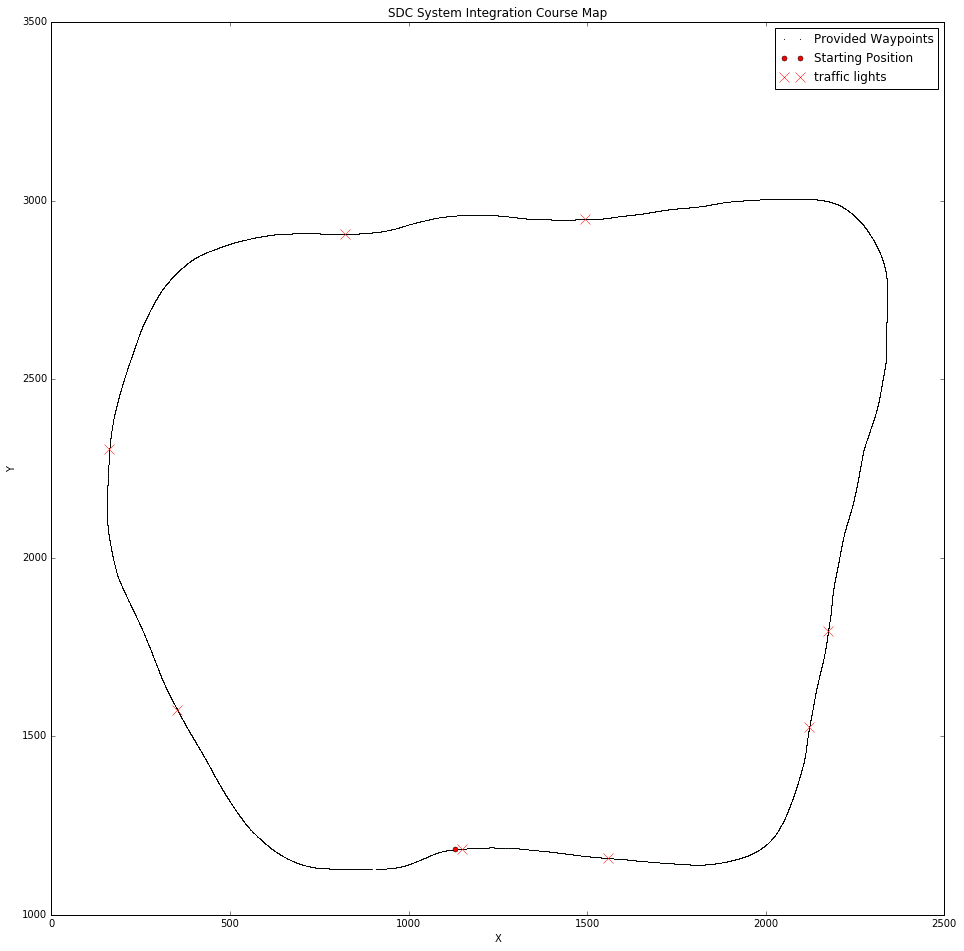
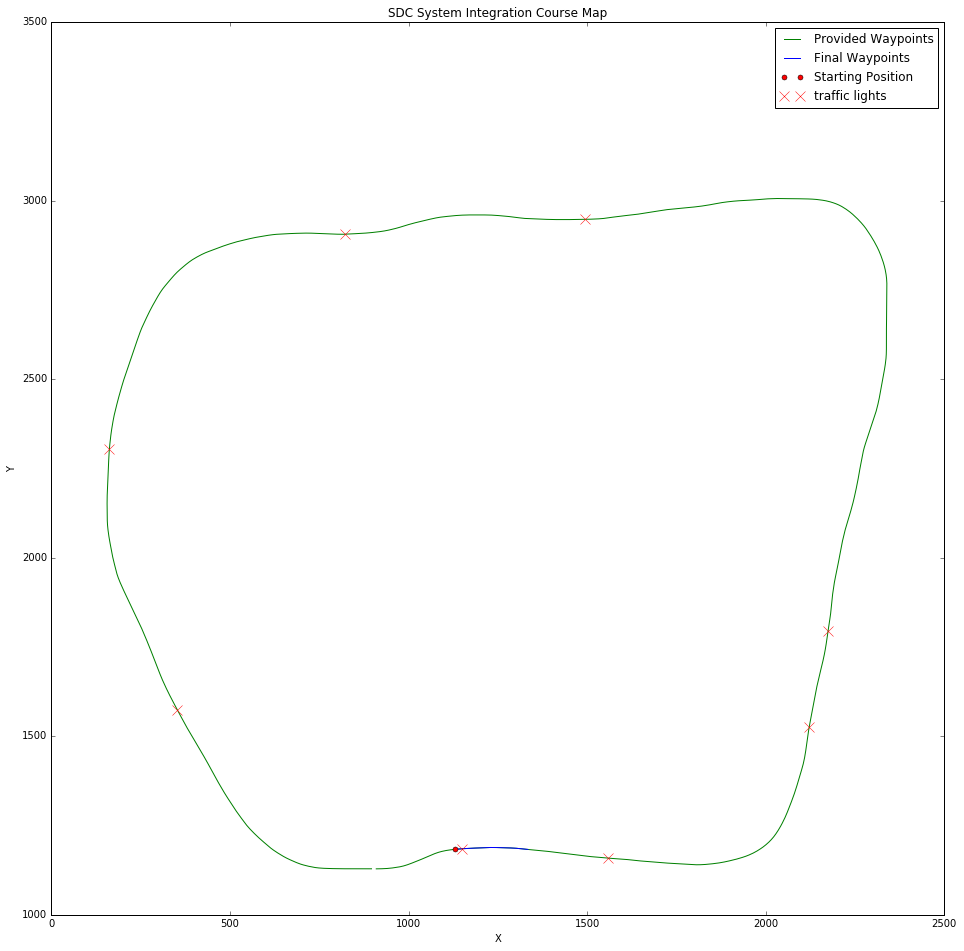
feat: waypoint_updater.py rc1

Changed region(s): [[0.8091, 0.061, 0.9647, 0.122]]

diff --git a/ros/src/waypoint_updater/waypoint_updater.py b/ros/src/waypoint_updater/waypoint_updater.py
@@ -1,8 +1,10 @@
 #!/usr/bin/env python
 
 import rospy
+import tf
 from geometry_msgs.msg import PoseStamped
 from styx_msgs.msg import Lane, Waypoint
+import numpy as np
 
 import math
 
@@ -32,21 +34,72 @@ class WaypointUpdater(object):
         rospy.Subscriber('/base_waypoints', Lane, self.waypoints_cb)
 
         # TODO: Add a subscriber for /traffic_waypoint and /obstacle_waypoint below
-
+        # NOTE: comment out until we get traffic lights working...
+        # rospy.Subscriber('/traffic_waypoint', Waypoint, self.traffic_cb)
+        # rospy.Subscriber('/obstacle_waypoint', Waypoint, self.obstacle_cb)
 
         self.final_waypoints_pub = rospy.Publisher('final_waypoints', Lane, queue_size=1)
 
-        # TODO: Add other member variables you need below
+        # DONE: Add other member variables you need below
+        self.pose = None
+        self.theta = None
+        self.waypoints = None
+        self.cwp = None
 
         rospy.spin()
 
-    def pose_cb(self, msg):
-        # TODO: Implement
-        pass
+    def nextWaypoint(self):
+        dist = 100000.
+        dl = lambda a, b: math.sqrt((a.x-b.x)**2 + (a.y-b.y)**2  + (a.z-b.z)**2)
+        cwp = 0
+        for i in range(len(self.waypoints)):
+            d1 = dl(self.position, self.waypoints[i].pose.pose.position)
+            if dist > d1:
+                cwp = i
+                dist = d1
+        x = self.waypoints[cwp].pose.pose.position.x
+        y = self.waypoints[cwp].pose.pose.position.y
+        heading = np.arctan2((y-self.position.y), (x-self.position.x))
+        angle = np.abs(self.theta-heading)
+        if angle > np.pi/4.:
+            cwp += 1
+            if cwp >= len(self.waypoints):
+                cwp = 0
+        self.cwp = cwp
 
-    def waypoints_cb(self, waypoints):
-        # TODO: Implement
-        pass
+    def getWaypoints(self, number):
+        self.final_waypoints = []
+        wlen = len(self.waypoints)
+        for i in range(number):
+            self.final_waypoints.append(self.waypoints[(i+self.cwp)%wlen])
+
+    def pose_cb(self, msg):
+        # DONE: Implement
+        self.pose = msg
+        self.position = self.pose.pose.position
+        euler = tf.transformations.euler_from_quaternion([
+            self.pose.pose.orientation.x,
+            self.pose.pose.orientation.y,
+            self.pose.pose.orientation.z,
+            self.pose.pose.orientation.w])
+        self.theta = euler[2]
+        
+        if self.waypoints:
+            self.nextWaypoint()
+            print "self.cwp:", self.cwp
+            self.getWaypoints(LOOKAHEAD_WPS)
+            self.publish()
+
+    def waypoints_cb(self, msg):
+        # DONE: Implement
+        if self.waypoints is None:
+            self.waypoints = []
+            for waypoint in msg.waypoints:
+                self.waypoints.append(waypoint)
+
+            # make sure we wrap!
+            self.waypoints.append(msg.waypoints[0])
+            self.waypoints.append(msg.waypoints[1])
 
     def traffic_cb(self, msg):
         # TODO: Callback for /traffic_waypoint message. Implement
@@ -69,6 +122,13 @@ class WaypointUpdater(object):
             dist += dl(waypoints[wp1].pose.pose.position, waypoints[i].pose.pose.position)
             wp1 = i
         return dist
+
+    def publish(self):
+        lane = Lane()
+        lane.header.frame_id = '/world'
+        lane.header.stamp = rospy.Time(0)
+        lane.waypoints = self.final_waypoints
+        self.final_waypoints_pub.publish(lane)
 
 
 if __name__ == '__main__':

diff --git a/ros/src/tools/dumpFinalWaypoints.py b/ros/src/tools/dumpFinalWaypoints.py
@@ -15,7 +15,7 @@ class DumpWaypoints():
         # initialize and subscribe to the current position and waypoint base topic
         rospy.init_node('waypoint_grabber')
         sub1 = rospy.Subscriber('/current_pose', PoseStamped, self.pose_cb)
-        sub2 = rospy.Subscriber('/base_waypoints', Lane, self.waypoints_cb)
+        sub2 = rospy.Subscriber('/final_waypoints', Lane, self.waypoints_cb)
         self.pose = None
         self.waypoints = None
         self.outfile = outfile
@@ -38,13 +38,10 @@ class DumpWaypoints():
         """
         self.waypoints = msg
         if self.pose:
-            print "pose: "
-            print self.pose
             fieldname = ['x', 'y']
             log_file = open(self.outfile, 'w')
             log_writer = csv.DictWriter(log_file, fieldnames=fieldname)
             log_writer.writeheader()
-            log_writer.writerow({'x':self.pose.pose.position.x, 'y':self.pose.pose.position.y})
             for waypoint in msg.waypoints:
                 log_writer.writerow({'x':waypoint.pose.pose.position.x, 'y':waypoint.pose.pose.position.y})
             log_file.close()
@@ -54,7 +51,7 @@ class DumpWaypoints():
 
 if __name__ == "__main__":
     parser = argparse.ArgumentParser(description='Udacity SDC System Integration, Waypoints Dumper')
-    parser.add_argument('outfile', type=str, help='Waypoint save file, first point is the starting point')
+    parser.add_argument('outfile', type=str, help='Final Waypoint save file, first point is the starting point')
     args = parser.parse_args()
 
     try:

diff --git a/README.md b/README.md
@@ -62,9 +62,14 @@ rosrun tools grabFrontCameraImage.py ../imgs/sampleout.jpg
 ```
 ![./imgs/sampleout.jpg](./imgs/sampleout.jpg)
 
-6. To dump the waypoints from the simulator
+6. To dump the waypoints from the `/base_waypoints` topic
 ```bash
 rosrun tools dumpWaypoints.py ../data/simulator_waypoints.csv
 ```
+7. To dump the final waypoints from the `/final_waypoints` topic
+```bash
+rosrun tools dumpFinalWaypoints.py ../data/final_waypoints.csv
+```
+
 ![./imgs/sim_waypoint_map.png](./imgs/sim_waypoint_map.png)
 
